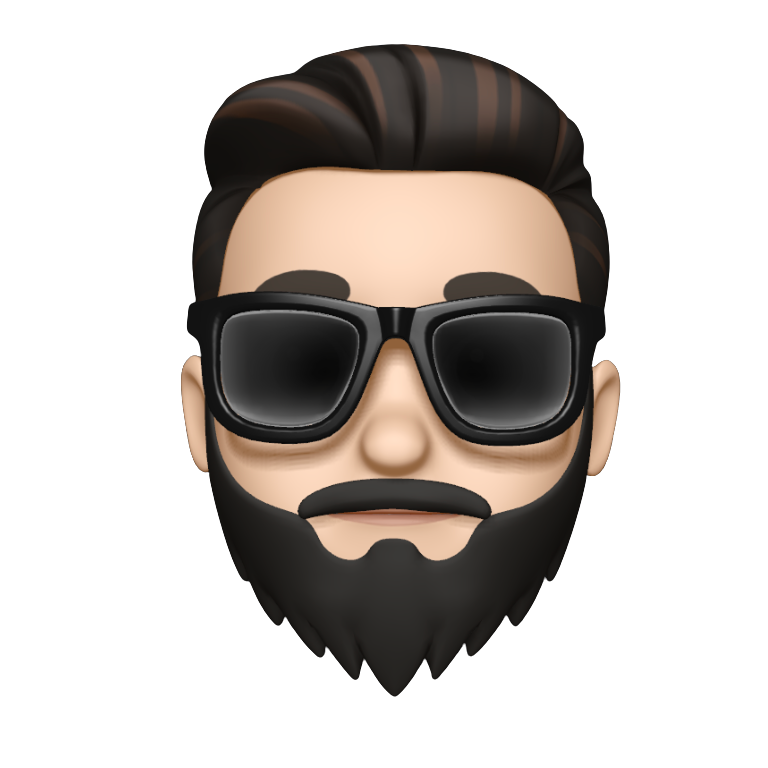
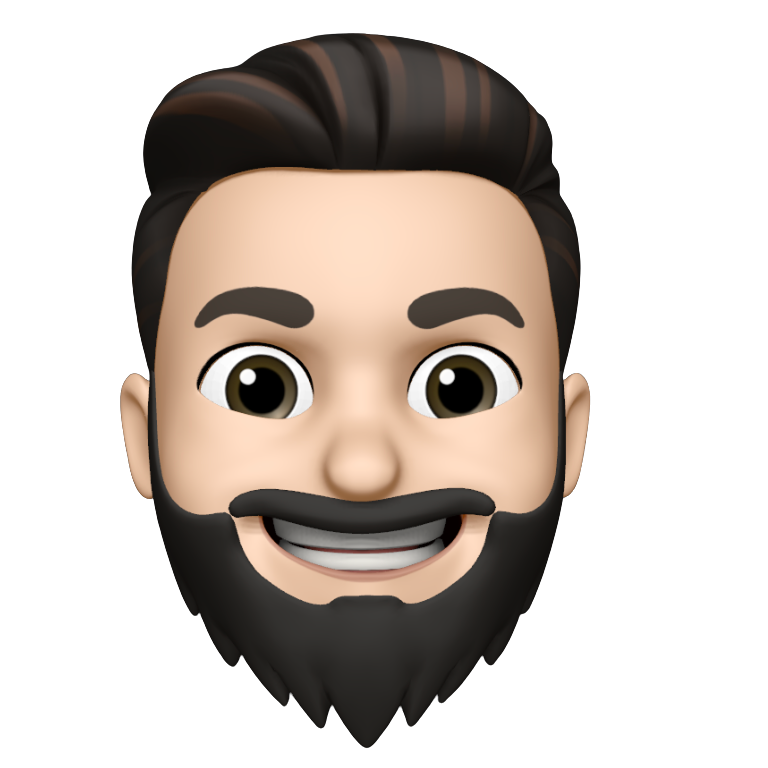
Add laughing memoji state, expand DFW counties, tighten mobile zoom, pad mobile hero
- Falling icon now has a laughing face shown on first floor hit
- Add 7 counties around the DFW perimeter (Lamar, Delta, Hopkins, Red River, Montague, Jack, Palo Pinto) so mobile has fewer empty edges
- Mobile pin zoom multiplier 2.0 -> 2.75 for a closer first zoom
- Add 88px hero top padding on mobile so the floating logo doesn't sit over the COMPANION SITE eyebrow

diff --git a/app.js b/app.js
@@ -441,7 +441,7 @@ function updateScene() {
   // and we tighten the zoom so clustered pins (e.g. the SoCal stops) spread
   // out and become more distinguishable.
   const mobileMap = matchMedia('(max-width: 800px)').matches;
-  const zoomMult = mobileMap ? 2.0 : 1.0;
+  const zoomMult = mobileMap ? 2.75 : 1.0;
   const currentZoom = (currentItem.zoom || CONFIG.pinZoomTight) * zoomMult;
   const nextZoom = (nextItem.zoom || CONFIG.pinZoomTight) * zoomMult;
   const pinOffset = mobileMap ? [0, -0.28] : [0, 0];
@@ -723,9 +723,10 @@ function initLogoEasterEgg() {
 
   const FACE_STANDARD = 'memoji_standard_transparent.png';
   const FACE_SHOCKED  = 'memoji_shocked_transparent.png';
+  const FACE_LAUGHING = 'memoji_laughing_transparent.png';
   const FACE_SLEEP    = 'memoji_sleep_transparent.png';
   // Preload so src swaps don't flash a blank frame.
-  [FACE_SHOCKED, FACE_SLEEP].forEach(src => { const i = new Image(); i.src = src; });
+  [FACE_SHOCKED, FACE_LAUGHING, FACE_SLEEP].forEach(src => { const i = new Image(); i.src = src; });
   const setFace = (src) => { if (img && img.getAttribute('src') !== src) img.setAttribute('src', src); };
 
   const GRAVITY = 2200;       // px/s²
@@ -858,9 +859,12 @@ function initLogoEasterEgg() {
           // impulse to simulate a tilt input. Subsequent bounces preserve the
           // existing vx so the icon carries its momentum.
           const isMobile = matchMedia('(max-width: 800px)').matches;
-          if (firstFloorHit && !tiltActive && !isMobile) {
-            const magnitude = Math.min(1, Math.abs(vyIn) / 600);
-            vx += (Math.random() * 2 - 1) * 900 * magnitude;
+          if (firstFloorHit) {
+            setFace(FACE_LAUGHING);
+            if (!tiltActive && !isMobile) {
+              const magnitude = Math.min(1, Math.abs(vyIn) / 600);
+              vx += (Math.random() * 2 - 1) * 900 * magnitude;
+            }
           }
           firstFloorHit = false;
         }

diff --git a/styles.css b/styles.css
@@ -839,6 +839,7 @@ h1, h2, h3 { margin: 0; font-family: var(--ff-display); font-weight: 400; letter
     min-height: 0;
     justify-content: flex-start;
     gap: 40px;
+    padding-top: 88px;
     padding-bottom: 40px;
   }
   .hero-top {
